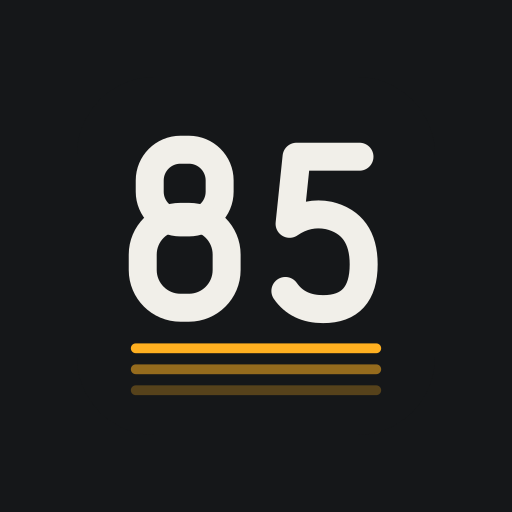
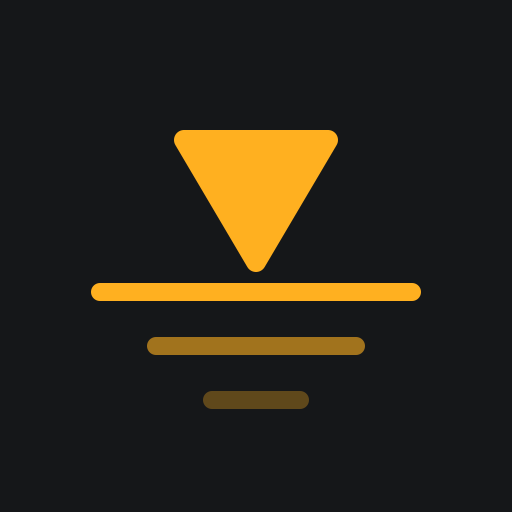
Renombrar la app a Cota y nuevo icono (marca de cota, sin cifras)

Changed region(s): [[0.1562, 0.25, 0.8438, 0.8125]]

diff --git a/src/data/guide.ts b/src/data/guide.ts
@@ -133,7 +133,7 @@ export const GUIDE: GuideSection[] = [
     blocks: [
       'Crea 3 entrenamientos de tipo **Fuerza** en Garmin Connect: **A**, **B** y **C** (sin días asignados).',
       'Descanso en todos: "Pulsar botón Lap". Calentamiento: **Cardio 10:00** (cualquier máquina).',
-      '**Tu flujo:** Garmin guía (serie, reps, descanso), **OpenGym es la fuente de verdad de pesos** (y calcula la siguiente carga). Ruta 85 lleva el peso corporal, la cintura, el dolor de rodilla y la dieta.',
+      '**Tu flujo:** Garmin guía (serie, reps, descanso), **OpenGym es la fuente de verdad de pesos** (y calcula la siguiente carga). Cota lleva el peso corporal, la cintura, el dolor de rodilla y la dieta.',
       'Los 3 entrenamientos iniciales del Garmin (Day 1/2/3) son antiguos: archívalos o bórralos.'
     ]
   },
@@ -146,7 +146,7 @@ export const GUIDE: GuideSection[] = [
       '3. **El plan no asigna días:** cada día abre la rutina que toque según la rotación (sección 1).',
       '4. **Pon pesos iniciales:** las dos primeras semanas, con los que te sobren 3-4 reps (RIR 3-4).',
       '5. **Progresión:** OpenGym calcula la siguiente carga. Lineal (peso sube si completas las reps) o doble (reps suben dentro del rango, luego peso).',
-      '6. **Pasar los entrenos a Ruta 85:** OpenGym → Settings → Data → **Export backup (JSON)** y aquí, Ajustes → **Importar copia de OpenGym**. Reimportar la misma copia o una más nueva no duplica sesiones.'
+      '6. **Pasar los entrenos a Cota:** OpenGym → Settings → Data → **Export backup (JSON)** y aquí, Ajustes → **Importar copia de OpenGym**. Reimportar la misma copia o una más nueva no duplica sesiones.'
     ]
   },
   {

diff --git a/src/components/AppShell.tsx b/src/components/AppShell.tsx
@@ -22,7 +22,7 @@ const TABS: ReadonlyArray<{ to: string; label: string; icon: IconName; end?: boo
 export function AppShell() {
   const matches = useMatches()
   const last = matches[matches.length - 1]
-  const handle = (last?.handle ?? { title: 'Ruta 85' }) as RouteHandle
+  const handle = (last?.handle ?? { title: 'Cota' }) as RouteHandle
   const title = typeof handle.title === 'function' ? handle.title(last.params) : handle.title
 
   return (
@@ -38,7 +38,7 @@ export function AppShell() {
             </Link>
           )}
           <div className="app__heading grow">
-            <p className="app__kicker eyebrow">{handle.kicker ?? 'Ruta 85'}</p>
+            <p className="app__kicker eyebrow">{handle.kicker ?? 'Cota'}</p>
             <h1 className="app__title display">{title}</h1>
           </div>
           <NavLink to="/ajustes" className="icon-btn" aria-label="Ajustes">

diff --git a/index.html b/index.html
@@ -7,8 +7,8 @@
     <meta name="viewport" content="width=device-width, initial-scale=1.0, viewport-fit=cover" />
     <meta name="theme-color" content="#151719" />
     <meta name="color-scheme" content="dark light" />
-    <meta name="description" content="Ruta 85: plan personal de entrenamiento, peso y dieta." />
-    <title>Ruta 85</title>
+    <meta name="description" content="Cota: plan personal de entrenamiento, peso y dieta." />
+    <title>Cota</title>
     <script>
       // Aplica el tema guardado antes del primer pintado para evitar el parpadeo.
       // Por defecto: oscuro. "system" deja decidir al sistema.

diff --git a/src/db/repo.ts b/src/db/repo.ts
@@ -479,7 +479,7 @@ function pickColumns(name: TableName, r: AnyRow): AnyRow {
 export async function importAll(obj: unknown): Promise<Partial<Record<TableName, number>>> {
   const file = obj as Partial<ExportFile> | null
   if (!file || typeof file !== 'object' || file.app !== 'ruta85' || typeof file.tables !== 'object' || !file.tables) {
-    throw new Error('El archivo no es una copia de Ruta 85.')
+    throw new Error('El archivo no es una copia de Cota.')
   }
   if (typeof file.version !== 'number' || file.version > EXPORT_VERSION) {
     throw new Error('Versión de copia no soportada: actualiza la app.')

diff --git a/src/styles/refine.css b/src/styles/refine.css
@@ -1,5 +1,5 @@
 /*
-  Ruta 85 · refinamiento (se carga al final, sobre tokens/base/components/screens).
+  Cota · refinamiento (se carga al final, sobre tokens/base/components/screens).
   Criterios: pantallas de trabajo, no páginas (taste app-screens + impeccable "Operate" + Emil Kowalski).
    - La cara condensada solo para el título y las cifras; etiquetas, botones y pestañas en la cara de texto.
    - Sin etiquetas en mayúsculas con tracking, sin patrones de puntos, sin barras de color de más de 1 px.

diff --git a/src/domain/types.ts b/src/domain/types.ts
@@ -1,5 +1,5 @@
 /**
- * Contrato de dominio de Ruta 85. Lo comparten todos los módulos (datos del plan, lógica,
+ * Contrato de dominio de Cota. Lo comparten todos los módulos (datos del plan, lógica,
  * base de datos y pantallas). Cambiarlo es una decisión de arquitectura: no lo edites desde
  * un módulo concreto; si falta algo, añádelo aquí sin romper lo existente.
  */

diff --git a/src/styles/screens-training-diet.css b/src/styles/screens-training-diet.css
@@ -1,4 +1,4 @@
-/* Ruta 85 · estilos propios de Entreno (progresión real) y Dieta (registro real).
+/* Cota · estilos propios de Entreno (progresión real) y Dieta (registro real).
    Solo tokens de tokens.css; los estilos base de la maqueta viven en screens.css. */
 
 /* ───────────── Entreno ───────────── */

diff --git a/vite.config.ts b/vite.config.ts
@@ -15,8 +15,8 @@ export default defineConfig({
       registerType: 'autoUpdate',
       includeAssets: ['icon.svg'],
       manifest: {
-        name: 'Ruta 85',
-        short_name: 'Ruta 85',
+        name: 'Cota',
+        short_name: 'Cota',
         description: 'Plan de entrenamiento, peso y dieta.',
         lang: 'es',
         dir: 'ltr',

diff --git a/src/screens/Settings.tsx b/src/screens/Settings.tsx
@@ -574,7 +574,7 @@ export function Settings() {
         </div>
       </Card>
 
-      <p className="muted small">Ruta 85 · funciona sin conexión. Los datos se guardan primero en este dispositivo.</p>
+      <p className="muted small">Cota · funciona sin conexión. Los datos se guardan primero en este dispositivo.</p>
     </div>
   )
 }

diff --git a/src/components/index.ts b/src/components/index.ts
@@ -1,4 +1,4 @@
-// Barril de componentes base de Ruta 85.
+// Barril de componentes base de Cota.
 export { AppShell } from './AppShell'
 export type { RouteHandle } from './AppShell'
 export { Card, Stat, Button, ButtonLink, NumberField, TextField, ScaleField, Segmented, Collapsible, EmptyState, Ring, usePrefersReducedMotion } from './ui'

diff --git a/src/styles/tokens.css b/src/styles/tokens.css
@@ -1,5 +1,5 @@
 /*
-  Ruta 85 · tokens de diseño ("marcador de vestuario").
+  Cota · tokens de diseño ("marcador de vestuario").
   :root = claro. Oscuro (por defecto en la app, vía data-theme="dark" en <html>):
   se redefine con prefers-color-scheme cuando el usuario elige "Sistema" y
   explícitamente con [data-theme="dark"].

diff --git a/src/styles/components.css b/src/styles/components.css
@@ -1,4 +1,4 @@
-/* Ruta 85 · componentes compartidos (AppShell, Sheet, Toast, WeekTrack, ui, gráficas). */
+/* Cota · componentes compartidos (AppShell, Sheet, Toast, WeekTrack, ui, gráficas). */
 
 /* ───────────── AppShell ───────────── */
 
